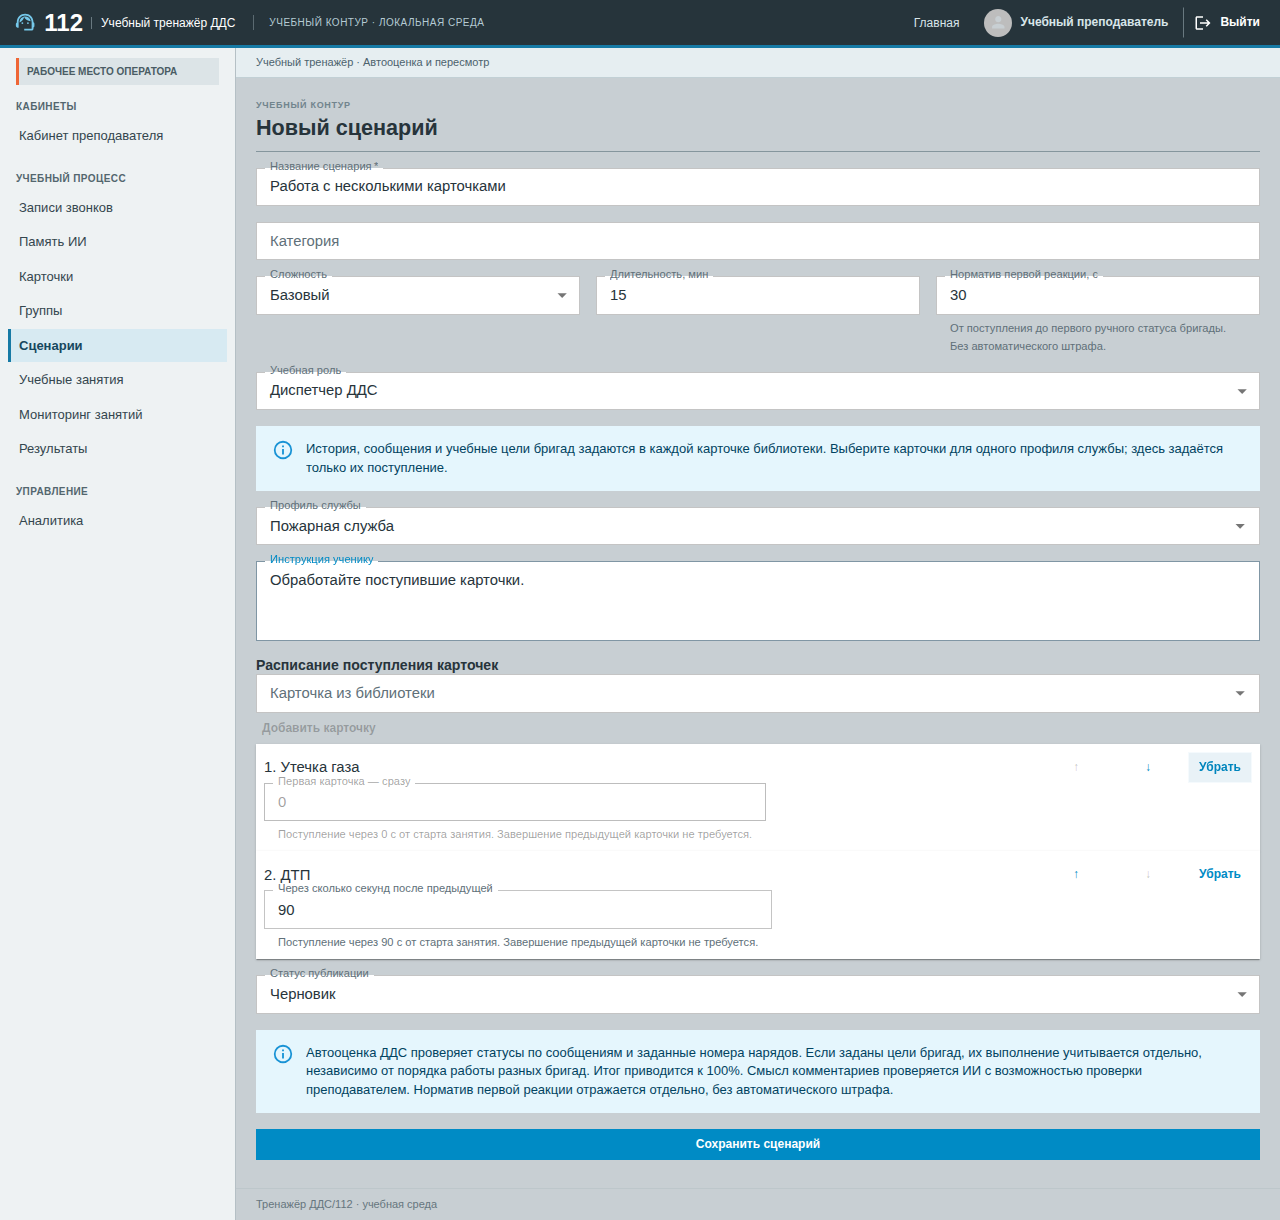
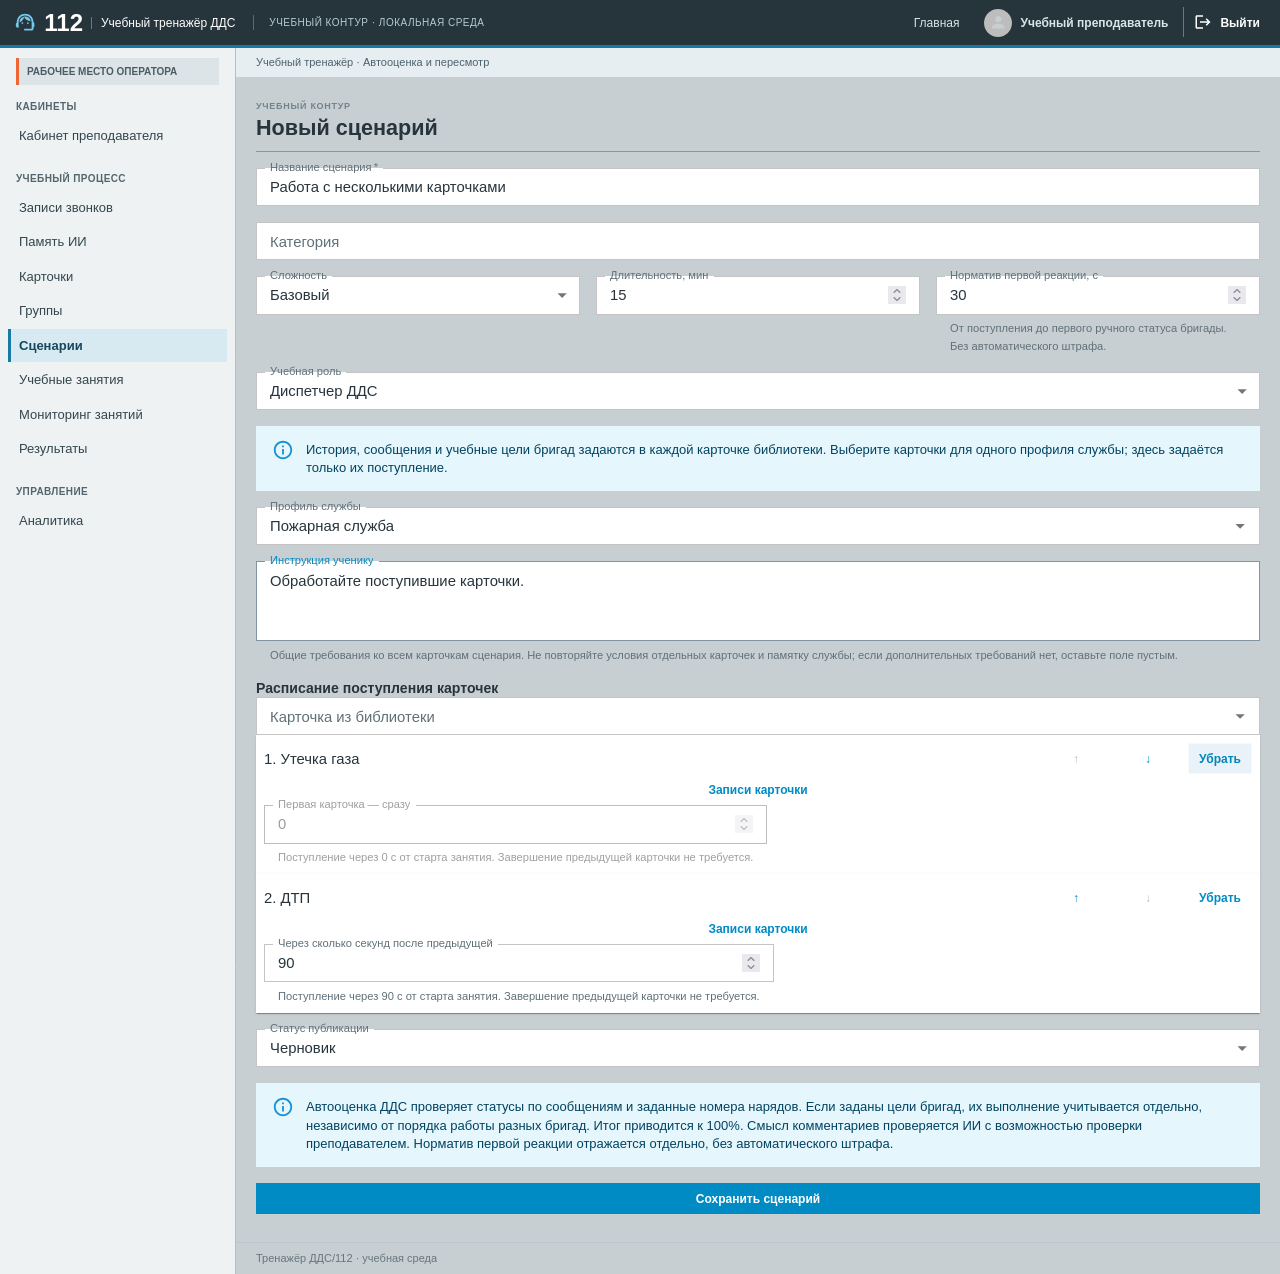
fix(scenarios): add library cards immediately on selection

diff --git a/112-frontend/src/pages/scenario-editor/model/scenarioEditorState.test.ts b/112-frontend/src/pages/scenario-editor/model/scenarioEditorState.test.ts
@@ -8,11 +8,9 @@ it("preserves schedule slots when reordering and resets the first arrival when r
   let state = scenarioEditorInitial();
   for (const id of ["first", "second", "third"]) {
     state = scenarioEditorReducer(state, {
-      type: "choice",
-      value: { id, label: id },
+      type: "add",
+      card: { id, label: id },
     });
-    state = scenarioEditorReducer(state, { type: "add" });
-    expect(state.choice).toBeNull();
   }
   state = scenarioEditorReducer(state, { type: "delay", index: 1, value: 90 });
   state = scenarioEditorReducer(state, { type: "move", index: 0, step: 1 });
@@ -25,5 +23,14 @@ it("preserves schedule slots when reordering and resets the first arrival when r
   state = scenarioEditorReducer(state, { type: "remove", index: 0 });
   expect(state.rows.map((row) => row.card.id)).toEqual(["first", "third"]);
   expect(state.rows.map((row) => row.delay)).toEqual([0, 60]);
-  expect(scenarioEditorReducer(state, { type: "add" })).toBe(state);
+});
+
+it("allows deliberate repeats but caps the scenario at 100 cards", () => {
+  let state = scenarioEditorInitial();
+  const add = { type: "add" as const, card: { id: "card", label: "Пожар" } };
+  for (let i = 0; i < 100; i++) state = scenarioEditorReducer(state, add);
+  expect(state.rows).toHaveLength(100);
+  expect(state.rows[0].delay).toBe(0);
+  expect(state.rows[99].delay).toBe(60);
+  expect(scenarioEditorReducer(state, add)).toBe(state);
 });

diff --git a/112-frontend/src/pages/scenario-editor/ui/ScenarioCardsFields.tsx b/112-frontend/src/pages/scenario-editor/ui/ScenarioCardsFields.tsx
@@ -10,10 +10,8 @@ export function ScenarioCardsFields({
   role,
   profileId,
   cards,
-  choice,
   delays,
   offsets,
-  onChoiceChange,
   onAdd,
   onRemove,
   onMove,
@@ -29,8 +27,12 @@ export function ScenarioCardsFields({
       <ServerSelect
         label="Карточка из библиотеки"
         queryKey={[...cardKeys.options, role, profileId]}
-        value={choice}
-        onChange={onChoiceChange}
+        key={cards.length}
+        value={null}
+        disabled={cards.length >= 100}
+        onChange={(card) => {
+          if (card) onAdd(card);
+        }}
         load={async (query, signal) =>
           (
             await cardApi.cards(
@@ -48,9 +50,11 @@ export function ScenarioCardsFields({
           }))
         }
       />
-      <Button disabled={!choice || cards.length >= 100} onClick={onAdd}>
-        Добавить карточку
-      </Button>
+      {cards.length >= 100 && (
+        <Typography variant="body2">
+          В сценарий можно добавить не более 100 карточек.
+        </Typography>
+      )}
       {cards.map((card, index) => (
         <Paper key={index} sx={styles.paper}>
           <Stack direction="row" sx={styles.stack} spacing={1}>

diff --git a/112-frontend/src/pages/scenario-editor/types/ScenarioEditorPage.ts b/112-frontend/src/pages/scenario-editor/types/ScenarioEditorPage.ts
@@ -11,11 +11,9 @@ export type ScenarioCardsFieldsProps = {
   profileId?: string;
   role: ScenarioInput["role"];
   cards: SelectOption[];
-  choice: SelectOption | null;
   delays: number[];
   offsets: number[];
-  onChoiceChange: (choice: SelectOption | null) => void;
-  onAdd: () => void;
+  onAdd: (card: SelectOption) => void;
   onRemove: (index: number) => void;
   onMove: (index: number, step: number) => void;
   onDelayChange: (index: number, value: number) => void;
@@ -29,13 +27,12 @@ export type ScenarioDdsSettingsProps = {
 export type ScenarioEditorState = {
   form: ScenarioInput;
   profile: SelectOption | null;
-  choice: SelectOption | null;
   rows: { card: SelectOption; delay: number }[];
 };
 export type ScenarioEditorAction =
   | { type: "form"; value: ScenarioInput }
-  | { type: "profile" | "choice"; value: SelectOption | null }
-  | { type: "add" }
+  | { type: "profile"; value: SelectOption | null }
+  | { type: "add"; card: SelectOption }
   | { type: "remove"; index: number }
   | { type: "move"; index: number; step: number }
   | { type: "delay"; index: number; value: number };

diff --git a/112-frontend/e2e/editor-state.spec.ts b/112-frontend/e2e/editor-state.spec.ts
@@ -36,10 +36,19 @@ for (const role of ["dds", "operator_112"]) {
     await choose("Профиль службы", "Пожарная служба");
     for (const card of cards) {
       await choose("Карточка из библиотеки", card.title);
-      await page
-        .getByRole("button", { name: "Добавить карточку", exact: true })
-        .click();
+      await expect(
+        page.getByRole("button", { name: "Убрать", exact: true }),
+      ).toHaveCount(cards.indexOf(card) + 1);
+      await expect(
+        page.getByRole("combobox", {
+          name: "Карточка из библиотеки",
+          exact: true,
+        }),
+      ).toHaveValue("");
     }
+    await expect(
+      page.getByRole("button", { name: "Добавить карточку", exact: true }),
+    ).toHaveCount(0);
     const delays = page.getByLabel("Через сколько секунд после предыдущей");
     await delays.nth(0).fill("45");
     await delays.nth(1).fill("90");

diff --git a/112-frontend/src/pages/scenario-editor/model/scenarioEditorState.ts b/112-frontend/src/pages/scenario-editor/model/scenarioEditorState.ts
@@ -40,7 +40,6 @@ export function scenarioEditorInitial(
     profile: initial?.service_profile_id
       ? { id: initial.service_profile_id, label: "Назначенный профиль ДДС" }
       : null,
-    choice: null,
     rows:
       initial?.cards.map((card, index, cards) => ({
         card: { id: card.card_template_id, label: card.snapshot.title },
@@ -66,16 +65,13 @@ export function scenarioEditorReducer(
         profile: action.value,
         form: { ...state.form, dds_policy: null },
       };
-    case "choice":
-      return { ...state, choice: action.value };
     case "add":
-      return state.choice
+      return state.rows.length < 100
         ? {
             ...state,
-            choice: null,
             rows: [
               ...state.rows,
-              { card: state.choice, delay: state.rows.length ? 60 : 0 },
+              { card: action.card, delay: state.rows.length ? 60 : 0 },
             ],
           }
         : state;

diff --git a/112-frontend/e2e/integration-real.spec.ts b/112-frontend/e2e/integration-real.spec.ts
@@ -222,9 +222,7 @@ test("real API: authoring, operator drafts, revision conflict, notification and 
   await page.getByLabel("Название сценария").fill(`Сценарий ${suffix}`);
   await page.getByLabel("Категория", { exact: true }).fill("Пожар");
   await select(page, "Карточка из библиотеки", `Пожар ${suffix}`);
-  await page.getByRole("button", { name: "Добавить карточку" }).click();
   await select(page, "Карточка из библиотеки", `Пожар ${suffix}`);
-  await page.getByRole("button", { name: "Добавить карточку" }).click();
   await page.getByLabel("Статус публикации").click();
   await page.getByRole("option", { name: "Опубликован", exact: true }).click();
   await page

diff --git a/112-frontend/src/pages/scenario-editor/model/useScenarioEditor.ts b/112-frontend/src/pages/scenario-editor/model/useScenarioEditor.ts
@@ -19,15 +19,12 @@ export function useScenarioEditor({ initial }: EditorProps) {
     initial,
     scenarioEditorInitial,
   );
-  const { form, profile, rows, choice } = state;
+  const { form, profile, rows } = state;
   const schedule = {
     cards: rows.map((row) => row.card),
     delays: rows.map((row) => row.delay),
-    choice,
     offsets: arrivalOffsets(rows),
-    setChoice: (value: SelectOption | null) =>
-      dispatch({ type: "choice", value }),
-    add: () => dispatch({ type: "add" }),
+    add: (card: SelectOption) => dispatch({ type: "add", card }),
     remove: (index: number) => dispatch({ type: "remove", index }),
     move: (index: number, step: number) =>
       dispatch({ type: "move", index, step }),

diff --git a/112-frontend/e2e/validation-audit.spec.ts b/112-frontend/e2e/validation-audit.spec.ts
@@ -68,9 +68,6 @@ test("DDS schedule and incompatible cards have actionable errors", async ({
   await choose(page, "Профиль службы", "Пожарная служба");
   for (let n = 0; n < 2; n++) {
     await choose(page, "Карточка из библиотеки", "Пожар в квартире");
-    await page
-      .getByRole("button", { name: "Добавить карточку", exact: true })
-      .click();
   }
   await page.getByLabel("Длительность, мин").fill("1");
   await page

diff --git a/112-frontend/e2e/catalog-dds-real.spec.ts b/112-frontend/e2e/catalog-dds-real.spec.ts
@@ -298,9 +298,6 @@ test("real API: EKP file roundtrip, rule editing, profile publication and DDS ex
     .click();
   await choose(page, "Карточка из библиотеки", card.title);
   await page
-    .getByRole("button", { name: "Добавить карточку", exact: true })
-    .click();
-  await page
     .getByRole("combobox", { name: "Статус публикации", exact: true })
     .click();
   await page.getByRole("option", { name: "Опубликован", exact: true }).click();

diff --git a/112-frontend/src/pages/scenario-editor/ui/ScenarioEditorPage.tsx b/112-frontend/src/pages/scenario-editor/ui/ScenarioEditorPage.tsx
@@ -96,10 +96,8 @@ function Editor({ initial }: EditorProps) {
             role={form.role}
             profileId={profile?.id}
             cards={schedule.cards}
-            choice={schedule.choice}
             delays={schedule.delays}
             offsets={schedule.offsets}
-            onChoiceChange={schedule.setChoice}
             onAdd={schedule.add}
             onRemove={schedule.remove}
             onMove={schedule.move}
